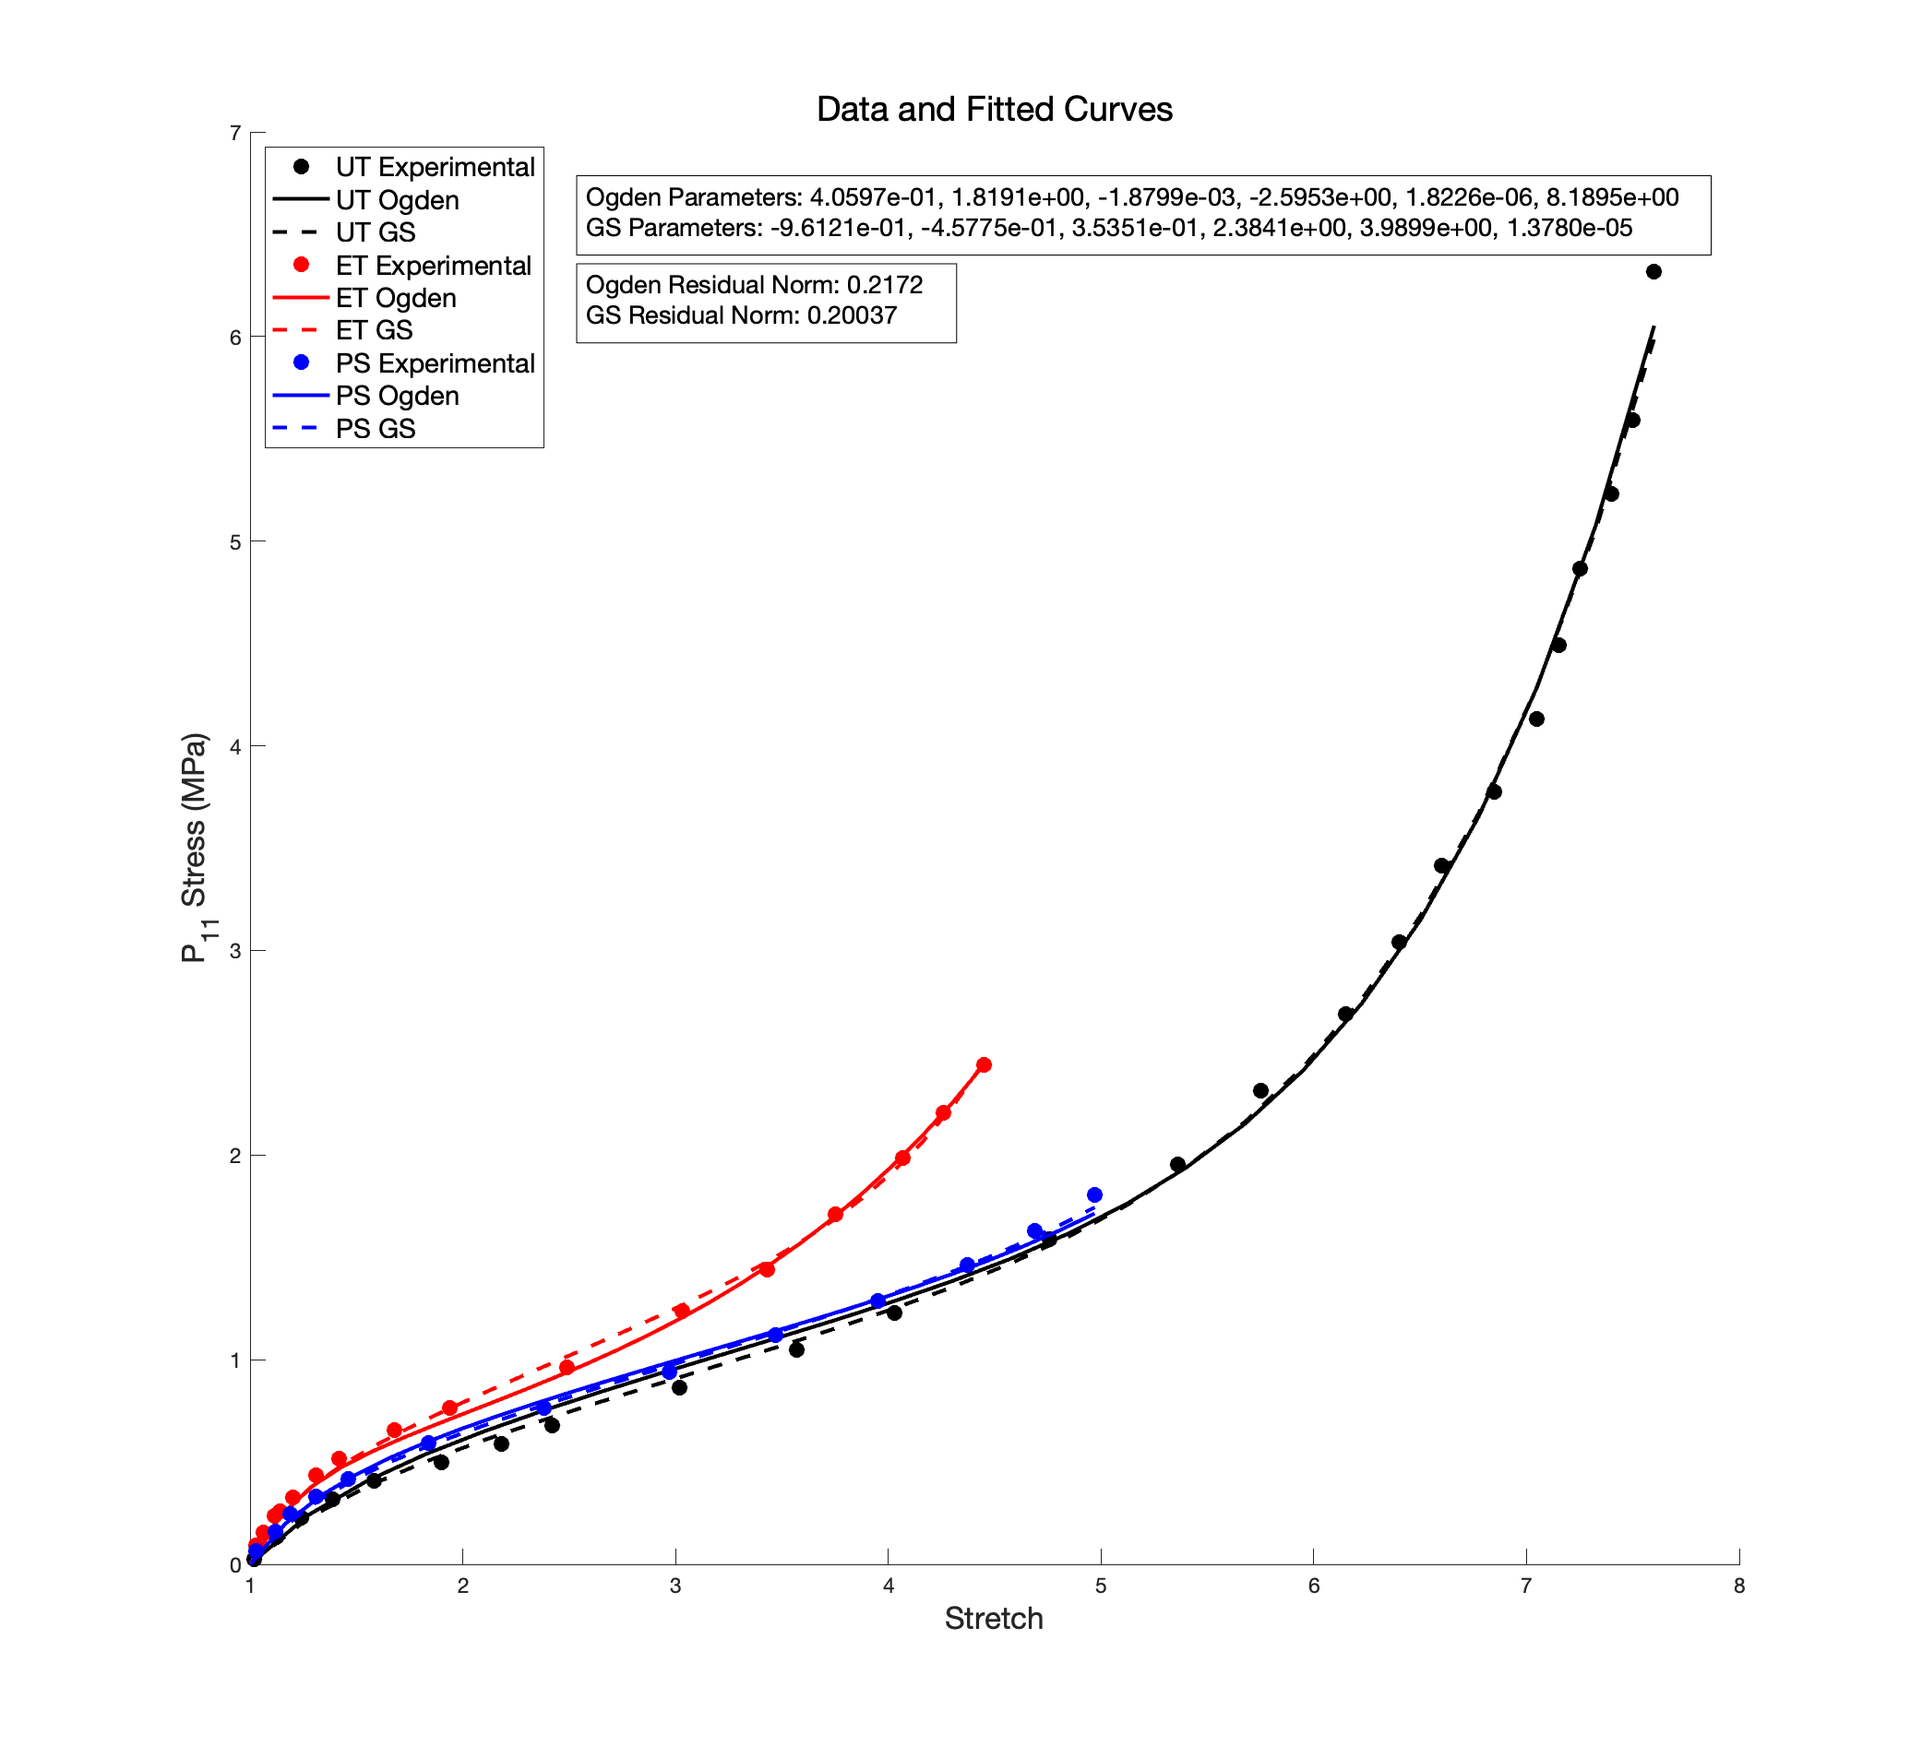
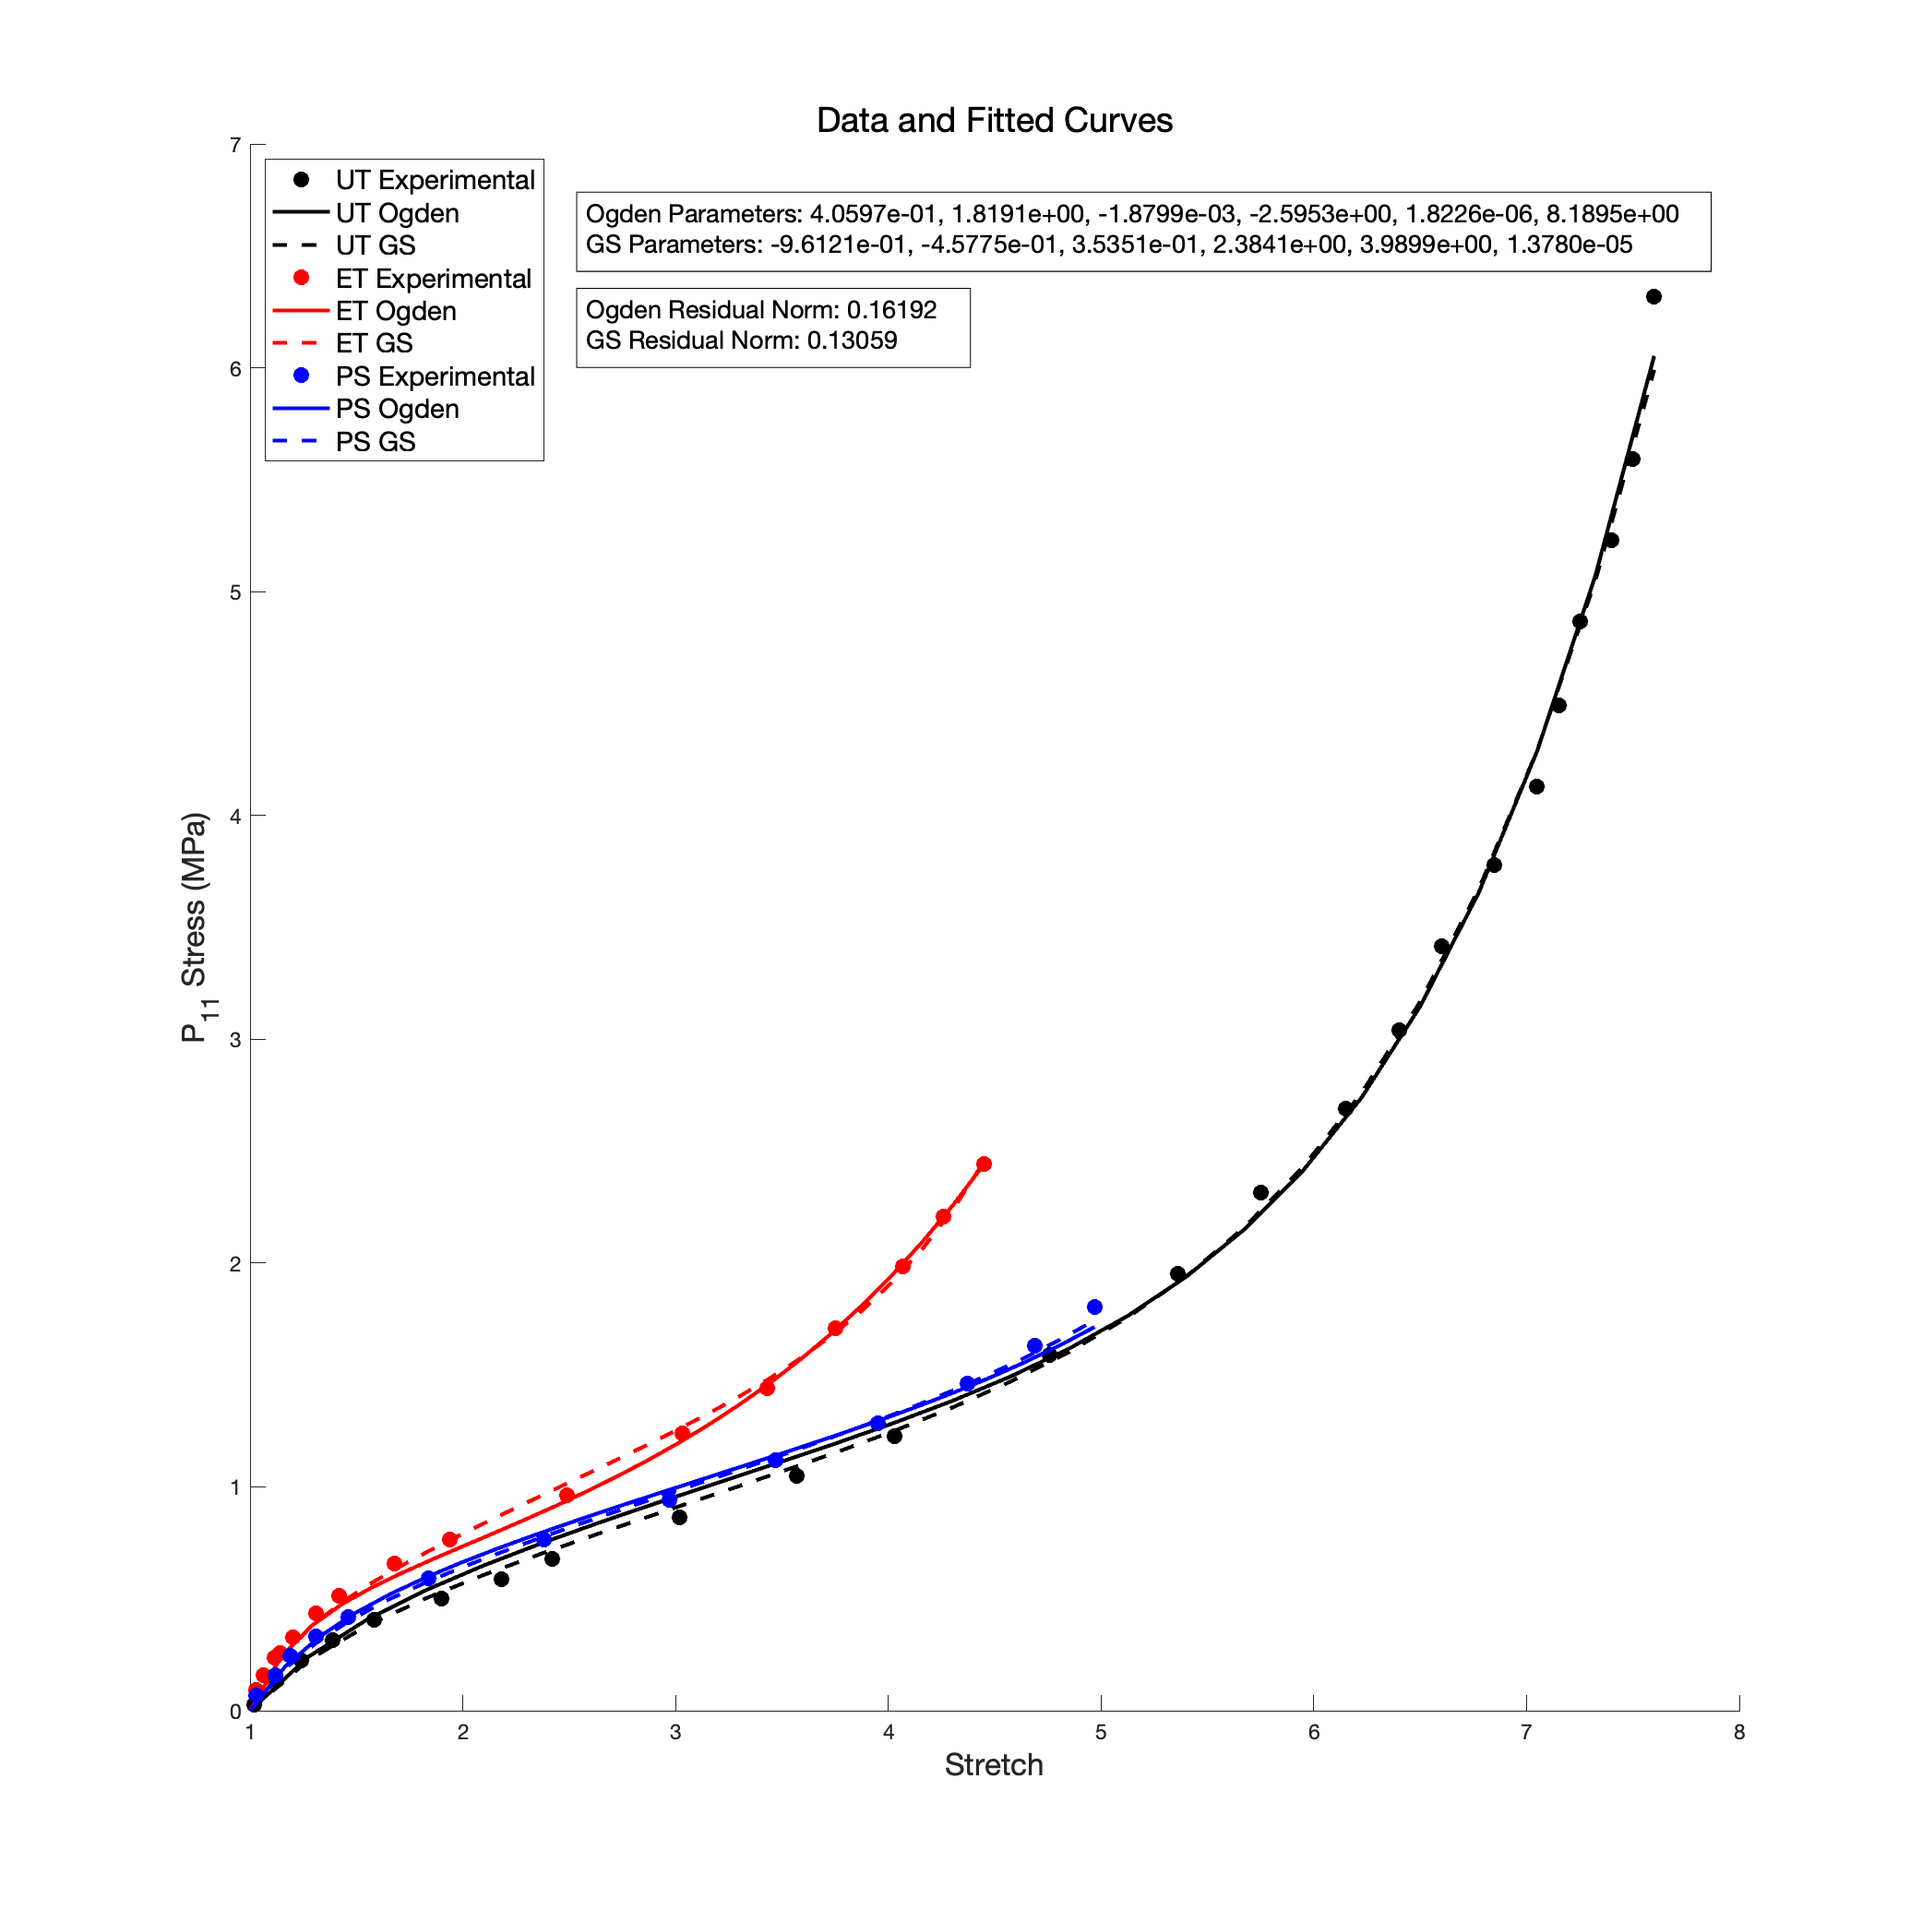
update

diff --git a/Ogden_vs_GS.m b/Ogden_vs_GS.m
@@ -46,15 +46,15 @@ GS_ET = @(x, xdata) term1(x, xdata) + term2(x, xdata) - (xdata.^(-3.0)) .* ( ter
 GS_PS = @(x, xdata) term1(x, xdata) + term2(x, xdata) - (xdata.^(-2.0)) .* ( term1(x, xdata.^(-1.0)) + term2(x, xdata.^(-1.0)) );
 
 % Residual norm
-GS_res = sum((GS_UT(GS_paras, Treloar_UT_strain)-Treloar_UT_stress) .* (GS_UT(GS_paras, Treloar_UT_strain)-Treloar_UT_stress))...
-       + sum((GS_ET(GS_paras, Treloar_ET_strain)-Treloar_ET_stress) .* (GS_ET(GS_paras, Treloar_ET_strain)-Treloar_ET_stress))...
-       + sum((GS_PS(GS_paras, Treloar_PS_strain)-Treloar_PS_stress) .* (GS_PS(GS_paras, Treloar_PS_strain)-Treloar_PS_stress));
+GS_res = sum((GS_UT(GS_paras, Treloar_UT_strain)-Treloar_UT_stress) .* (GS_UT(GS_paras, Treloar_UT_strain)-Treloar_UT_stress) ./ Treloar_UT_stress)...
+       + sum((GS_ET(GS_paras, Treloar_ET_strain)-Treloar_ET_stress) .* (GS_ET(GS_paras, Treloar_ET_strain)-Treloar_ET_stress) ./ Treloar_ET_stress)...
+       + sum((GS_PS(GS_paras, Treloar_PS_strain)-Treloar_PS_stress) .* (GS_PS(GS_paras, Treloar_PS_strain)-Treloar_PS_stress) ./ Treloar_PS_stress);
 
 disp(['GS residual norm = ' num2str(GS_res)]);
 
-Ogden_res = sum((Ogden_UT(Ogden_paras, Treloar_UT_strain)-Treloar_UT_stress) .* (Ogden_UT(Ogden_paras, Treloar_UT_strain)-Treloar_UT_stress))...
-          + sum((Ogden_ET(Ogden_paras, Treloar_ET_strain)-Treloar_ET_stress) .* (Ogden_ET(Ogden_paras, Treloar_ET_strain)-Treloar_ET_stress))...
-          + sum((Ogden_PS(Ogden_paras, Treloar_PS_strain)-Treloar_PS_stress) .* (Ogden_PS(Ogden_paras, Treloar_PS_strain)-Treloar_PS_stress));
+Ogden_res = sum((Ogden_UT(Ogden_paras, Treloar_UT_strain)-Treloar_UT_stress) .* (Ogden_UT(Ogden_paras, Treloar_UT_strain)-Treloar_UT_stress) ./ Treloar_UT_stress)...
+          + sum((Ogden_ET(Ogden_paras, Treloar_ET_strain)-Treloar_ET_stress) .* (Ogden_ET(Ogden_paras, Treloar_ET_strain)-Treloar_ET_stress) ./ Treloar_ET_stress)...
+          + sum((Ogden_PS(Ogden_paras, Treloar_PS_strain)-Treloar_PS_stress) .* (Ogden_PS(Ogden_paras, Treloar_PS_strain)-Treloar_PS_stress) ./ Treloar_PS_stress);
 
 disp(['Ogden residual norm = ' num2str(Ogden_res)]);
 
@@ -167,15 +167,15 @@ x_ET = linspace(1.0, max(Treloar_ET_strain), 25);
 x_PS = linspace(1.0, max(Treloar_PS_strain), 25);
 
 % Residual norm
-GS_res = sum((GS_UT(GS_paras, Treloar_UT_strain)-Treloar_UT_stress) .* (GS_UT(GS_paras, Treloar_UT_strain)-Treloar_UT_stress))...
-       + sum((GS_ET(GS_paras, Treloar_ET_strain)-Treloar_ET_stress) .* (GS_ET(GS_paras, Treloar_ET_strain)-Treloar_ET_stress))...
-       + sum((GS_PS(GS_paras, Treloar_PS_strain)-Treloar_PS_stress) .* (GS_PS(GS_paras, Treloar_PS_strain)-Treloar_PS_stress));
+GS_res = sum((GS_UT(GS_paras, Treloar_UT_strain)-Treloar_UT_stress) .* (GS_UT(GS_paras, Treloar_UT_strain)-Treloar_UT_stress) ./ Treloar_UT_stress)...
+       + sum((GS_ET(GS_paras, Treloar_ET_strain)-Treloar_ET_stress) .* (GS_ET(GS_paras, Treloar_ET_strain)-Treloar_ET_stress) ./ Treloar_ET_stress)...
+       + sum((GS_PS(GS_paras, Treloar_PS_strain)-Treloar_PS_stress) .* (GS_PS(GS_paras, Treloar_PS_strain)-Treloar_PS_stress) ./ Treloar_PS_stress);
 
 disp(['GS residual norm = ' num2str(GS_res)]);
 
-Ogden_res = sum((Ogden_UT(Ogden_paras, Treloar_UT_strain)-Treloar_UT_stress) .* (Ogden_UT(Ogden_paras, Treloar_UT_strain)-Treloar_UT_stress))...
-          + sum((Ogden_ET(Ogden_paras, Treloar_ET_strain)-Treloar_ET_stress) .* (Ogden_ET(Ogden_paras, Treloar_ET_strain)-Treloar_ET_stress))...
-          + sum((Ogden_PS(Ogden_paras, Treloar_PS_strain)-Treloar_PS_stress) .* (Ogden_PS(Ogden_paras, Treloar_PS_strain)-Treloar_PS_stress));
+Ogden_res = sum((Ogden_UT(Ogden_paras, Treloar_UT_strain)-Treloar_UT_stress) .* (Ogden_UT(Ogden_paras, Treloar_UT_strain)-Treloar_UT_stress) ./ Treloar_UT_stress)...
+          + sum((Ogden_ET(Ogden_paras, Treloar_ET_strain)-Treloar_ET_stress) .* (Ogden_ET(Ogden_paras, Treloar_ET_strain)-Treloar_ET_stress) ./ Treloar_ET_stress)...
+          + sum((Ogden_PS(Ogden_paras, Treloar_PS_strain)-Treloar_PS_stress) .* (Ogden_PS(Ogden_paras, Treloar_PS_strain)-Treloar_PS_stress) ./ Treloar_PS_stress);
 
 disp(['Ogden residual norm = ' num2str(Ogden_res)]);
 
